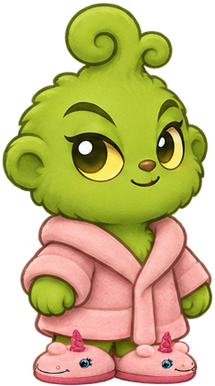
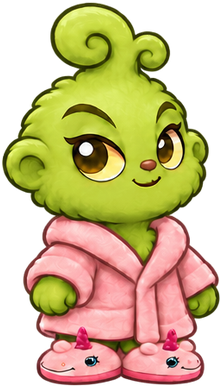
art: питомцы победителей конкурса РГ — M4 у Гринча (СР3), символ и щит у Йоды (СР5), красное платье Смурфетты (СР9)

diff --git a/PLAN.md b/PLAN.md
@@ -6,6 +6,8 @@
 
 ## Сейчас делаем
 
+- **19.11: питомцы победителей конкурса РГ (спека `docs/superpowers/specs/2026-11-19-contest-pets-design.md`, план `…/plans/2026-11-19-contest-pets.md`).** Трём победителям (СР3, СР5, СР9) доработали питомцев по их запросу, новое видно с 3-й стадии (на 19.11 СР3 на 4-й, СР5 и СР9 на 3-й). Гринч (СР3) — розовая M4 у груди; Йода (СР5) — символ на лбу и большой светящийся щит с символом (первый щит владелец счёл мелким; один повтор испортил цвет кожи — перерисован); Смурфетта (СР9) — красное платье, красная шапка, чёрные туфли (вариант А, выбор руководителя). Листы правил Codex через мост (`work/agent-exchange/requests/contest-*.json`); СР3 и СР5 — весь лист, `tools/slice-pets.py` перерезал `sr3-1..5`, `sr5-1..5`. **СР9:** модерация `image_gen` блокирует правку листа с детскими стадиями и одиночную 4-ю стадию (5 блокировок); 3-я и 5-я нарисованы одиночными фигурами, 4-я — прежняя, перекрашенная скриптом (`work/contest-pets/recolor_sr9_4.py`), лист собран `work/contest-pets/compose_sr9.py` (1–2-я — пиксели прежнего листа, их файлы байт в байт прежние). Проверка листа до нарезки и превью «было/стало/на ТВ» — `work/contest-pets/check_sheet.py` (не в git). Прежние листы — `assets/_raw/srN-rost-pre-contest.png`. Пляжные версии СР3, СР5, СР9 в магазине сделаны по старой 5-й стадии — перерисовать по новой. Выпуск в `master` — после «да» владельца.
+
 - **17.11: Гринч в тапочках и 10 новых игрушек РГ с трюками (план `C:/Users/Elder_Mikhey/.claude/plans/velvet-sparking-mccarthy.md`).** Отдел СР3 попросил обуть Гринча: лист `assets/_raw/sr3-rost.png` заменён (старый — `sr3-rost-old.png`), `tools/slice-pets.py` перерезал `sr3-1..5.png`. Десять игрушек нарезаны из `assets/_raw/toys-2-v2.png` (сетка 5 × 2) в `public/assets/toys/`; `TOYS` — 15 видов, вид `id % 15` (у сегодняшних игрушек вид может смениться — только картинка). Трюки (`toyTricks.ts`, чистые, с тестами): шарик `float`, йо-йо `yoyo` (нитка), самолётик `glide`, машинка `drive`, пузыри `bubbles`, барабан `drum` (нотки), телефон `call` («дзынь!», «Алло! Оплата?»), попрыгунчик `hop`, ракета `launch` (дымок), гантелька `lift`. `RoomView.playTrick` ставит рамку сразу в точку приземления (оборванный трюк оставляет игрушку там), мелочи и `data-trick` снимает `stopToy`; высокие картинки — рамка `--toy-h` (`toyHeight` в `toys.ts`: шарик 84, ракета 70, баночка 66, йо-йо 40); верх картинки не выше 250 px над полом (`CEIL`, таблички с 275). `PetActor.trick` идёт по меткам, `halt` → `room.stopTrick()`; при reduced motion игрушка стоит, питомец радуется. Демо `?demo=1&toy=…`, кадры — `work/shots-toys.mjs` (не в git). `check:render`: блок «трюки» (три загрузки на все 10, перехват посреди трюка, уборка, игрушка в комнате, DOM не растёт). Ревью Opus: Important (ракета заходила на таблички — тест проверял низ, а не верх рамки) исправлено с тестом; разворот картинки без CSS-перехода, дымок с запуска. Мелочи на потом: наезд камеры (`focusRoom` → `release`) обрывает трюк — игрушка сразу в точке приземления; больной у ракеты разворачивается посреди шага назад; после смены игрушки посреди трюка питомец стоит до конца прежнего; перехват в `check:render` проверен на трюке с мелочами (летящая игрушка — только зондом). **Выпущено 17.11:** `master` 6372e76 (перемотка `tv-screen`, бэкенд не менялся), Pages OK, `check:dist` OK, `check-live --backend` OK (два первых прогона — `request failed` к `/exec`, при этом бэкенд отвечал 200 за ~5 с; зонд сценария 3/3 чисто, повтор OK); строка про игрушки в памятке сотрудникам (Claude Docs, ревизия 20). `npm run audit:publish` падает на двух документах 25.10 (`docs/superpowers/plans/2026-10-25-tamagochi-plan.md`, `…/specs/2026-10-25-tamagochi-design.md`) — совпадение со словами из локальных xlsx, в этой работе не менялись; смотрит владелец.
 - **11.11: игра до 30.11, личный план оплат, новички 2+2 недели (спека `docs/superpowers/specs/2026-11-11-month-game-design.md`, план `…/plans/2026-11-11-month-game.md`).** Владелец: пороги 25/50/75/100 не трогать (100% = план служебки), откат СР2 со 2-й стадии на 1-ю принят.
   - Сделано на `tv-screen`: календарь 02–30.11 (20 рабочих дней, `NON_WORKING_MAX = 29`, `GAME_END`), `paymentPlan` у сотрудника (лист Staff, `setStaff`, снимок, карточка, таблица «План/мес», JSON) — план на день = `paymentPlan × 105% / 20`, без плана — запасные нормы 0,30 / 0 / 0,10; новичок 1 — 14 дней от приёма, новичок 2 — ещё 14. Тесты 989, build, check:render/admin/dist зелёные; ревью: 0 ошибок в правилах.

diff --git a/CREDITS.md b/CREDITS.md
@@ -9,4 +9,5 @@
 | work/trailer/trailer.mp4 — трейлер игры (исходники tools/trailer/: trailer.html, music.py, render.mjs) | музыка и звуки — собственные, синтез numpy (tools/trailer/music.py); картинки — ассеты проекта выше; шрифт Nunito — Google Fonts | проект; шрифт — Vernon Adams, Cyreal, Jacques Le Bailly | музыка и звуки CC0; Nunito — SIL Open Font License 1.1 | https://fonts.google.com/specimen/Nunito |
 | public/assets/toys/bear.png, duck.png, top.png, cube.png, hedgehog.png — игрушки от РГ на ТВ (мишка, уточка, юла, кубик, мячик-ёжик); обрезаны по прозрачности и уменьшены до 256 px | сгенерированы Codex (встроенный `image_gen`, вход владельца через ChatGPT) мостом tools/agent-bridge, 05.11.2026 | проект | собственные, лицензий третьих лиц нет | — |
 | public/assets/pets/sr3-1.png … sr3-5.png — Гринч (СР3) в розовых тапочках по просьбе отдела: пять стадий нарезаны `tools/slice-pets.py` из нового листа assets/_raw/sr3-rost.png (прежний — sr3-rost-old.png) | правка прежнего листа встроенным `image_gen` по фото заказчика, 17.11.2026 | проект | для этой игры по заказу | — |
+| public/assets/pets/sr3-1.png … sr3-5.png, sr5-1.png … sr5-5.png, sr9-3.png … sr9-5.png — питомцы победителей конкурса РГ: Гринч (СР3) с розовой M4, Йода (СР5) с символом на лбу и энергетическим щитом, Смурфетта (СР9) в красном платье и шапке и чёрных туфлях; нарезаны `tools/slice-pets.py` из новых листов assets/_raw/srN-rost.png (прежние — srN-rost-pre-contest.png) | правка прежних листов встроенным `image_gen` по картинкам руководителей групп, 19.11.2026; у СР9 3-я и 5-я стадии нарисованы отдельными фигурами, 4-я перекрашена скриптом из прежней, 1–2-я прежние | проект | для этой игры по заказу | — |
 | public/assets/toys/balloon.png, yoyo.png, plane.png, car.png, bubbles.png, drum.png, phone.png, bouncer.png, rocket.png, dumbbell.png — десять новых игрушек от РГ (шарик, йо-йо, самолётик, машинка, мыльные пузыри, барабан, телефон, попрыгунчик, ракета, гантелька); нарезаны по сетке 5 × 2 из листа assets/_raw/toys-2-v2.png, обрезаны по прозрачности, не больше 256 px | встроенный `image_gen` по образцу стиля assets/_raw/toys-ref.png (мост tools/agent-bridge, задание toys-2-20261117-retry), 17.11.2026 | проект | для этой игры по заказу | — |
